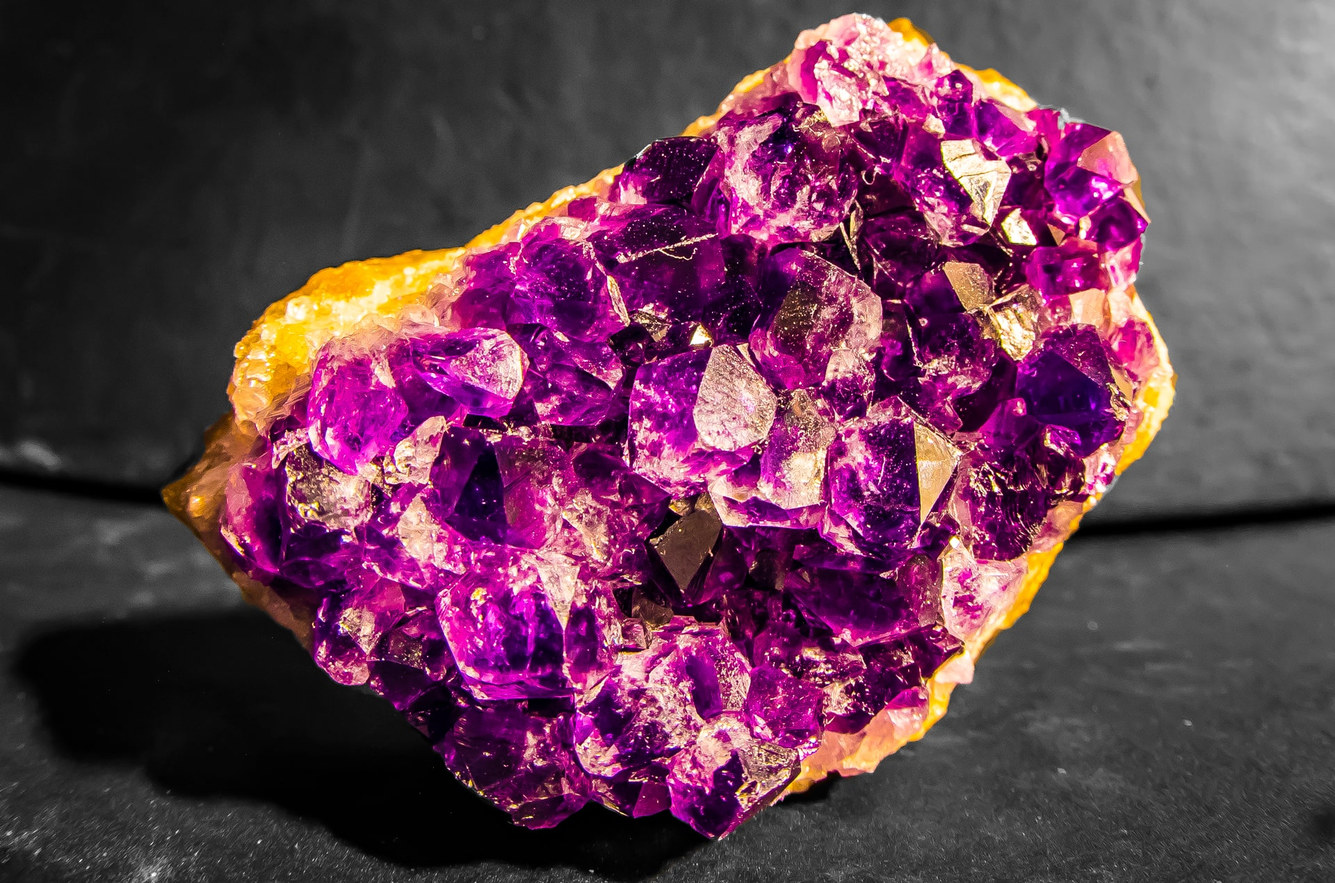
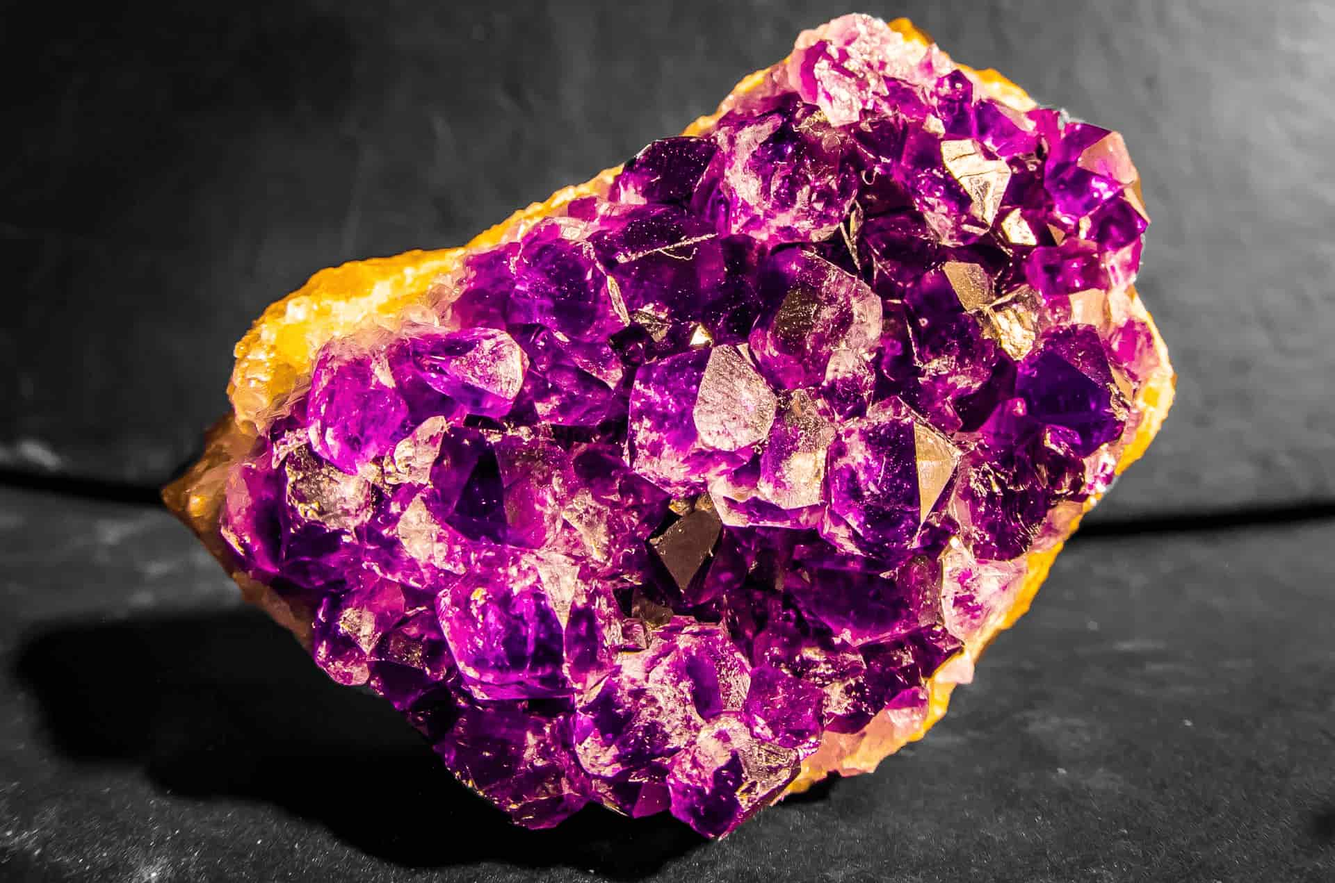
compressed images more

diff --git a/src/App.vue b/src/App.vue
@@ -110,7 +110,7 @@ export default {
       Amethyst     : require("./images/Amethyst.jpg"),
       Cuckoo       : require("./images/Cuckoo.jpg"),
       Herbie       : require("./images/Herbie.jpg"),
-      Hilmar       : require("./images/Hilmar.png"),
+      Hilmar       : require("./images/Hilmar.jpg"),
       Teapot       : require("./images/Teapot.jpg"),
       Trumpet       : require("./images/Trumpet.jpg"),
       Flamingo       : require("./images/Flamingo.jpg"),
